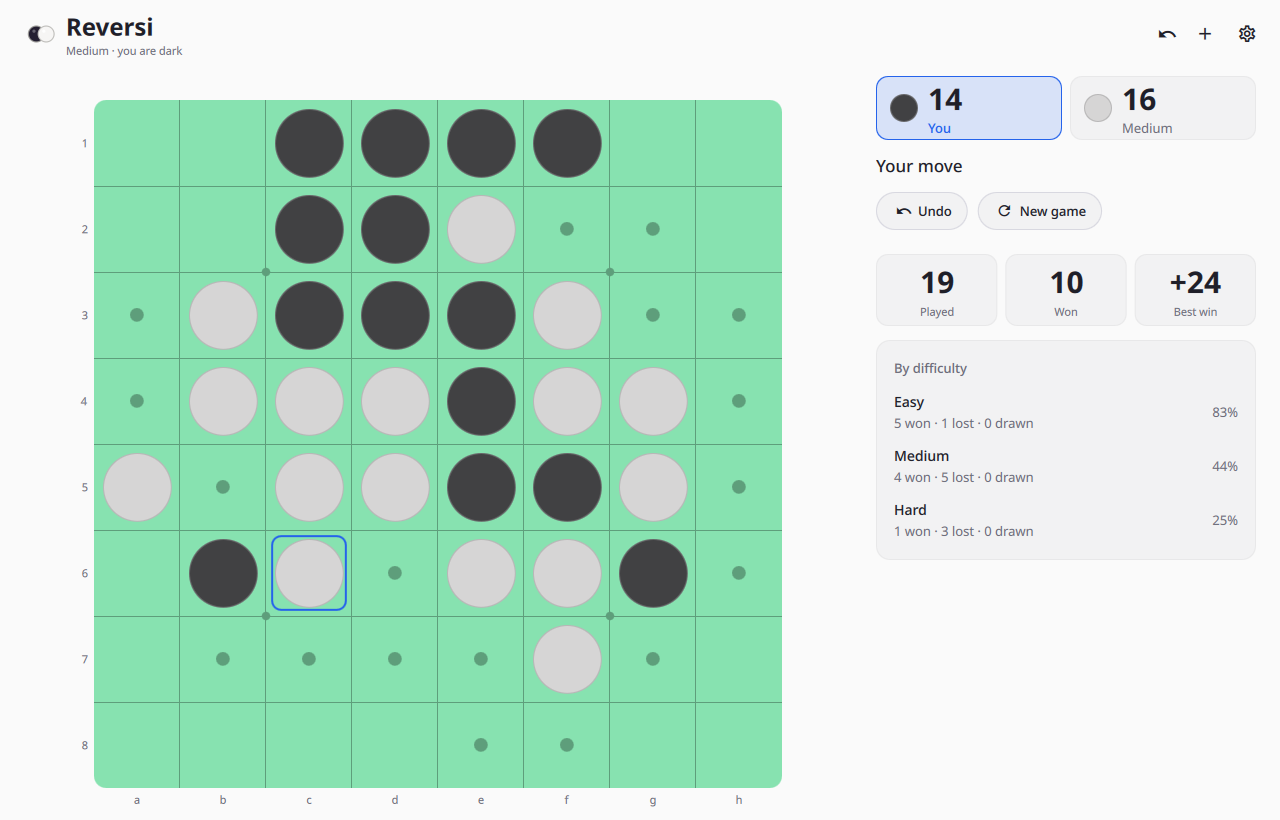
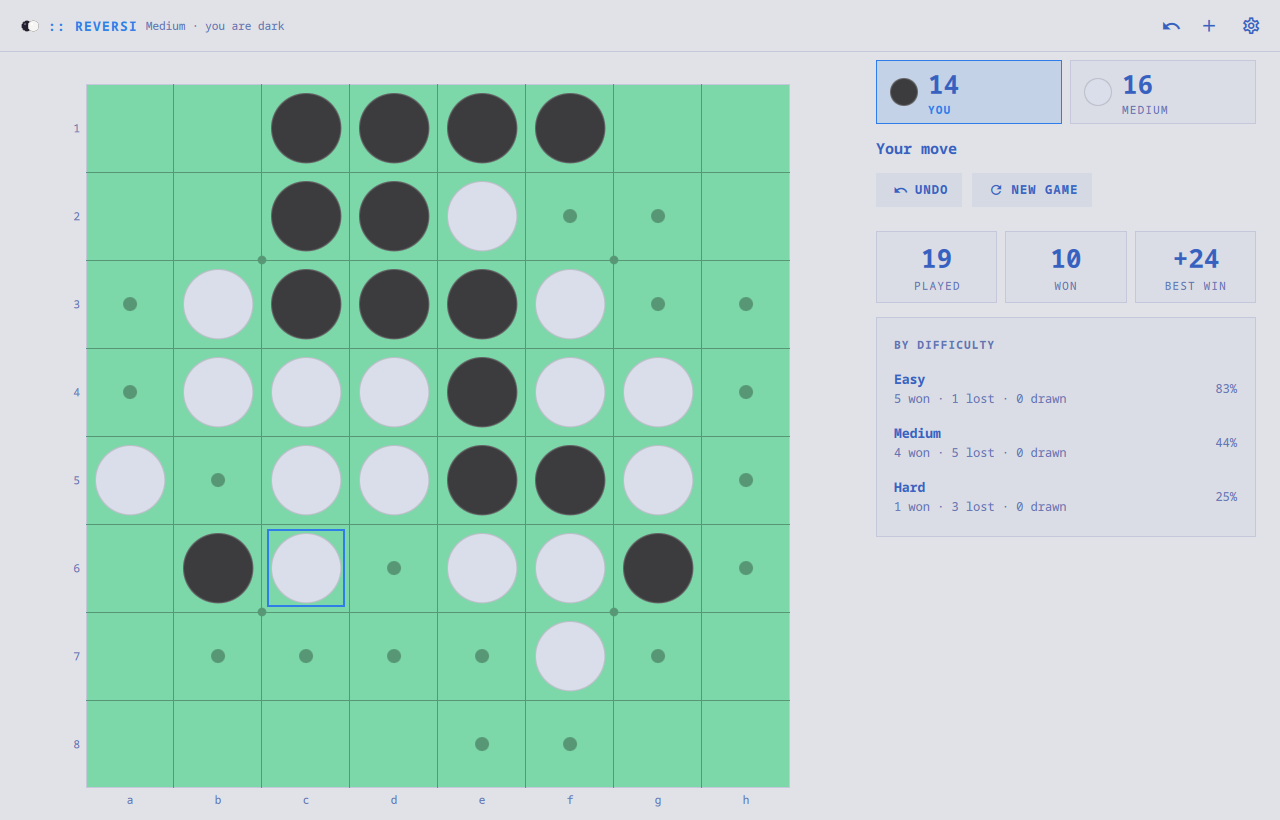
Reversi in Omarchy's look: square, lined, in capitals
The felt is a lined square, the keyboard's cursor is square, and the score,
record and new-game labels are small capitals. The discs are discs.

diff --git a/apps/reversi/Panel.qml b/apps/reversi/Panel.qml
@@ -389,10 +389,12 @@ App {
 
     Text {
       text: "Against"
-      color: root.ui.text
+      color: root.ui.muted
       font.family: root.ui.font
-      font.pixelSize: root.ui.fs.md
-      font.weight: Font.DemiBold
+      font.pixelSize: root.ui.fs.xs
+      font.weight: Font.Bold
+      font.capitalization: Font.AllUppercase
+      font.letterSpacing: root.ui.tracking
     }
     Flow {
       width: parent.width
@@ -405,10 +407,12 @@ App {
     Text {
       visible: newGame.mode === S.SOLO
       text: "Difficulty"
-      color: root.ui.text
+      color: root.ui.muted
       font.family: root.ui.font
-      font.pixelSize: root.ui.fs.md
-      font.weight: Font.DemiBold
+      font.pixelSize: root.ui.fs.xs
+      font.weight: Font.Bold
+      font.capitalization: Font.AllUppercase
+      font.letterSpacing: root.ui.tracking
     }
     Flow {
       visible: newGame.mode === S.SOLO
@@ -437,10 +441,12 @@ App {
     Text {
       visible: newGame.mode === S.SOLO
       text: "You play"
-      color: root.ui.text
+      color: root.ui.muted
       font.family: root.ui.font
-      font.pixelSize: root.ui.fs.md
-      font.weight: Font.DemiBold
+      font.pixelSize: root.ui.fs.xs
+      font.weight: Font.Bold
+      font.capitalization: Font.AllUppercase
+      font.letterSpacing: root.ui.tracking
     }
     Flow {
       visible: newGame.mode === S.SOLO
@@ -497,7 +503,7 @@ App {
           color: root.over ? root.ui.accent : root.ui.muted
           font.family: root.ui.font
           font.pixelSize: root.ui.fs.md
-          font.weight: root.over ? Font.DemiBold : Font.Normal
+          font.weight: root.over ? Font.Bold : Font.Normal
         }
       }
     }

diff --git a/apps/reversi/RecordView.qml b/apps/reversi/RecordView.qml
@@ -24,10 +24,10 @@ Column {
         required property var modelData
         width: (root.width - 16) / 3
         height: 72
-        radius: root.app.ui.radius + 2
+        radius: root.app.ui.radius
         color: root.app.ui.surface
         border.width: 1
-        border.color: root.app.ui.divider
+        border.color: root.app.ui.line
         Column {
           anchors.centerIn: parent
           spacing: 2
@@ -46,6 +46,8 @@ Column {
             color: root.app.ui.muted
             font.family: root.app.ui.font
             font.pixelSize: root.app.ui.fs.xs
+            font.capitalization: Font.AllUppercase
+            font.letterSpacing: root.app.ui.tracking
           }
         }
       }
@@ -73,7 +75,7 @@ Column {
             color: root.app.ui.text
             font.family: root.app.ui.font
             font.pixelSize: root.app.ui.fs.md
-            font.weight: Font.DemiBold
+            font.weight: Font.Bold
           }
           Text {
             width: parent.width

diff --git a/apps/reversi/ScoreStrip.qml b/apps/reversi/ScoreStrip.qml
@@ -22,10 +22,10 @@ Row {
       readonly property bool live: root.turn === modelData
       width: (root.width - root.spacing) / 2
       height: 64
-      radius: root.app.ui.radius + 2
+      radius: root.app.ui.radius
       color: live ? root.app.ui.accentSoft : root.app.ui.surface
       border.width: 1
-      border.color: live ? root.app.ui.accent : root.app.ui.divider
+      border.color: live ? root.app.ui.accent : root.app.ui.line
 
       Rectangle {
         id: swatch
@@ -58,8 +58,10 @@ Row {
           text: root.names[box.modelData]
           color: box.live ? root.app.ui.accent : root.app.ui.muted
           font.family: root.app.ui.font
-          font.pixelSize: root.app.ui.fs.sm
-          font.weight: box.live ? Font.DemiBold : Font.Normal
+          font.pixelSize: root.app.ui.fs.xs
+          font.weight: box.live ? Font.Bold : Font.Normal
+          font.capitalization: Font.AllUppercase
+          font.letterSpacing: root.app.ui.tracking
         }
       }
     }

diff --git a/apps/reversi/Board.qml b/apps/reversi/Board.qml
@@ -33,8 +33,10 @@ Item {
     anchors.centerIn: parent
     width: root.side
     height: root.side
-    radius: root.app.ui.radius + 2
+    radius: root.app.ui.radius
     color: root.app.ui.felt
+    border.width: 1
+    border.color: root.app.ui.line
     clip: true
 
     // The grid: seven lines each way, inside the felt's own edge.
@@ -161,7 +163,7 @@ Item {
           anchors.margins: 2
           visible: root.cursor === cell.index
           color: "transparent"
-          radius: 4
+          radius: root.app.ui.radius
           border.width: 3
           border.color: root.app.ui.text
         }

diff --git a/apps/reversi/Controls.qml b/apps/reversi/Controls.qml
@@ -25,7 +25,7 @@ Column {
     color: controls.app.over ? controls.app.ui.accent : controls.app.ui.text
     font.family: controls.app.ui.font
     font.pixelSize: controls.app.ui.fs.lg
-    font.weight: Font.DemiBold
+    font.weight: Font.Bold
   }
   // Undo stops at the end of a game: the result has gone into the record by
   // then, and a board that can be rewound past a recorded result can record a
